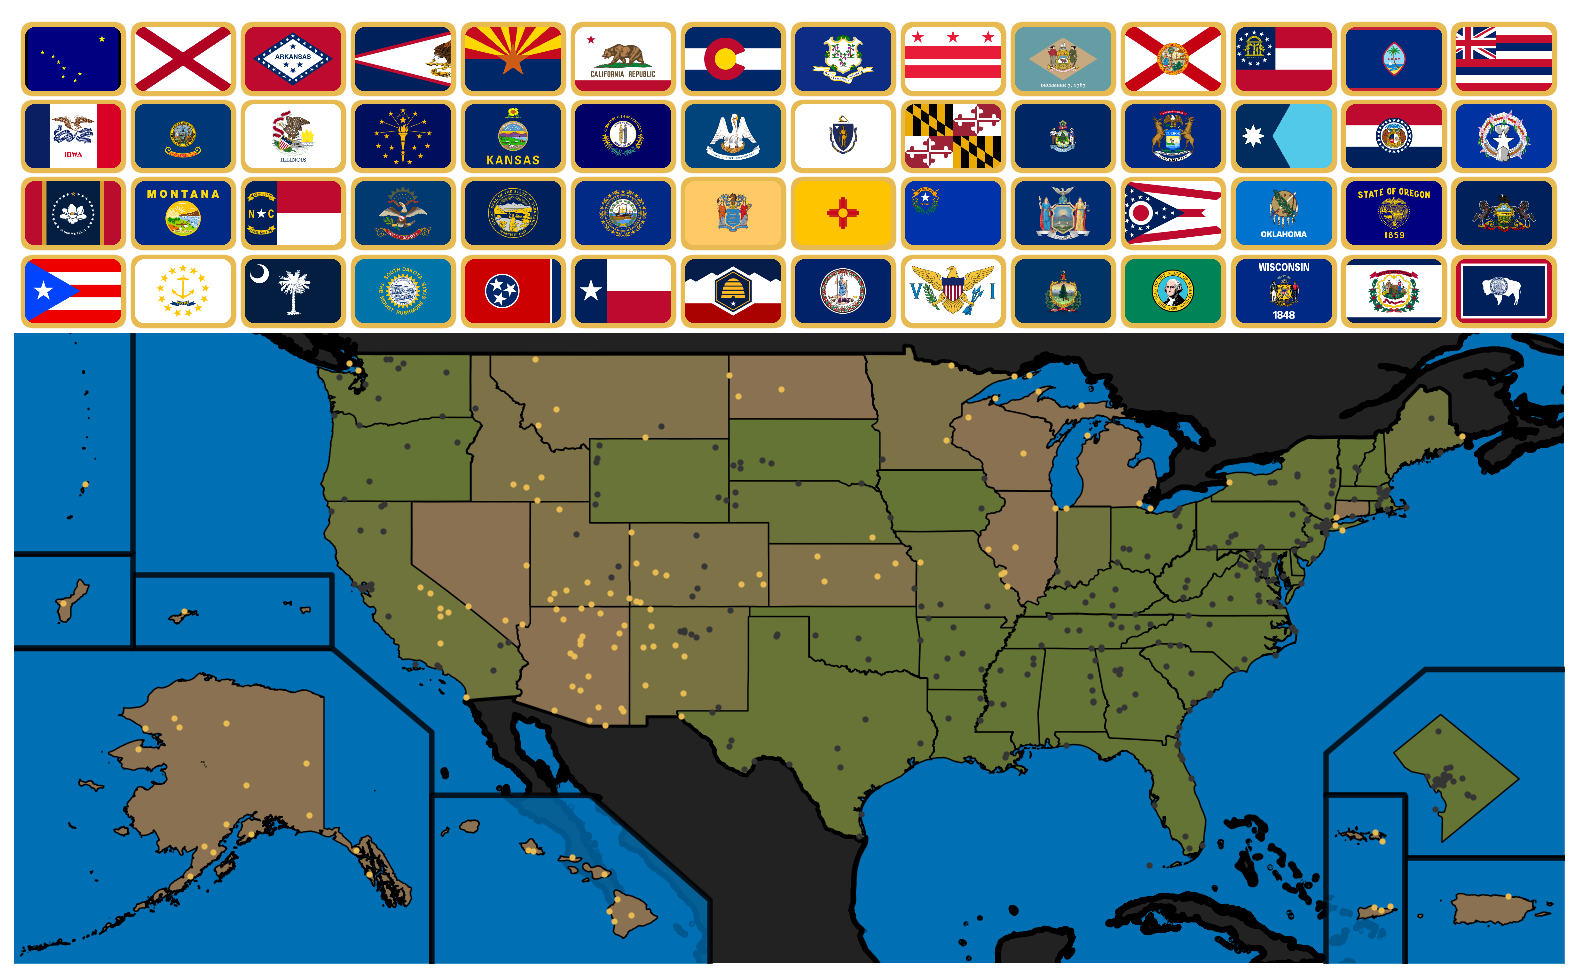
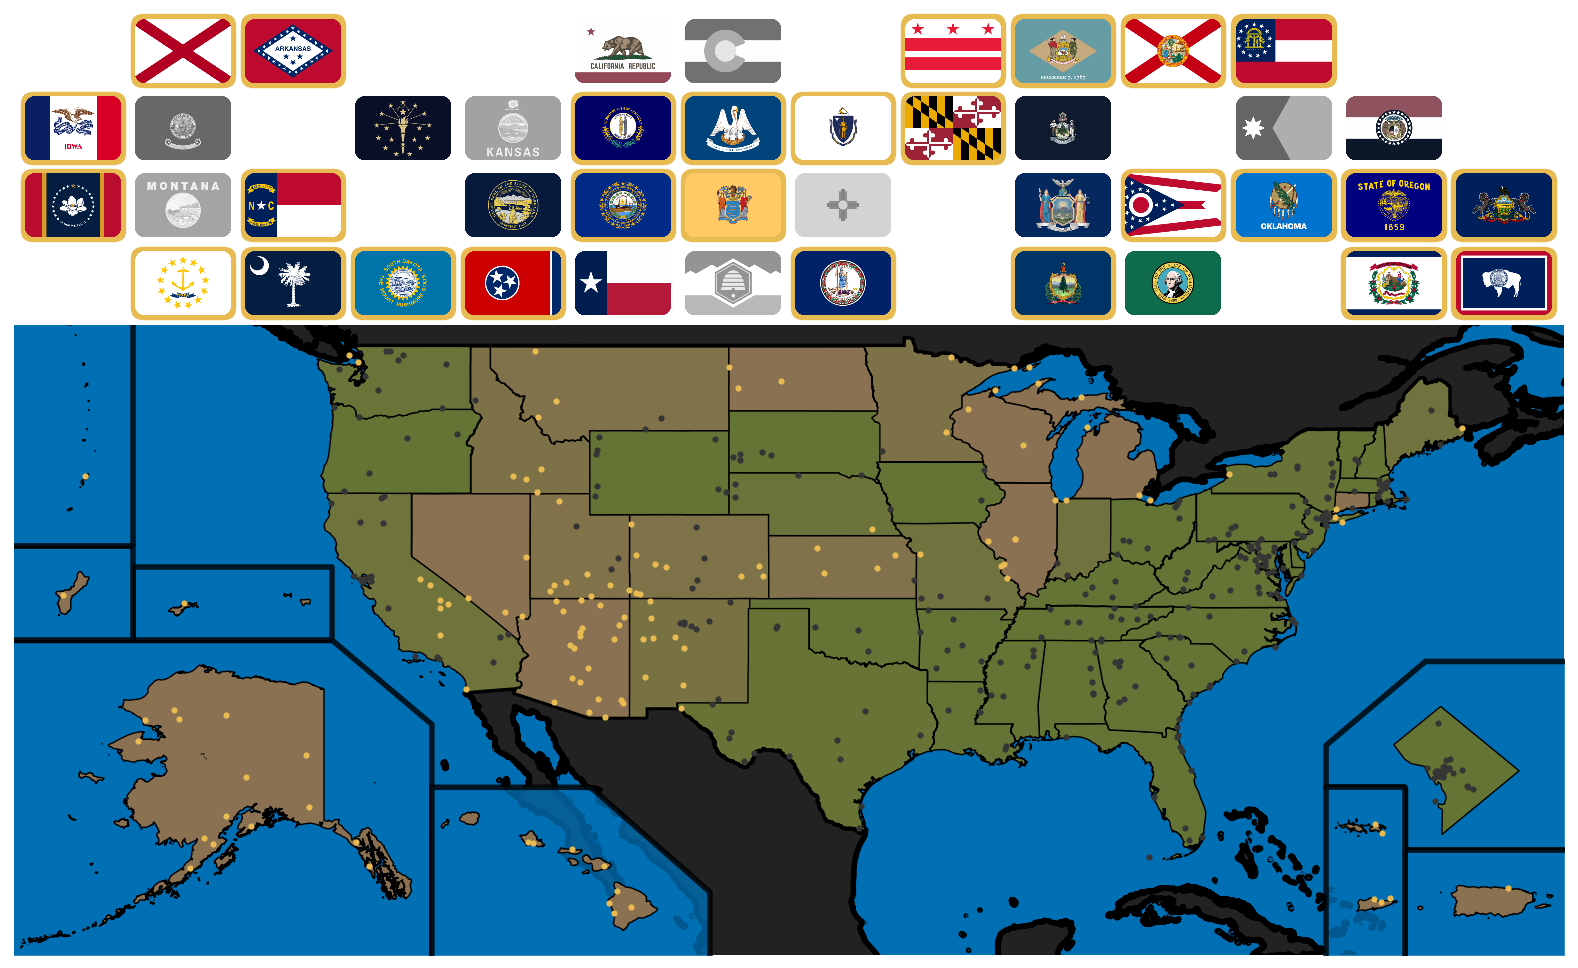
add plotting

diff --git a/plotting/plotting_manager.py b/plotting/plotting_manager.py
@@ -54,13 +54,13 @@ class PlotManager:
         self.copy = copy
         print(f"{current_date.date()} - {row['name']}")
         fig, ax = self._initialize_plot()
+        self.points_working = self.points_gdf.copy(deep=True)
         self._plot_submaps(ax, current_date)
         if self.plot_scale >= 3:
-            self._plot_labels(ax, current_date, points=self.points_gdf)
-            #self._plot_points(ax, current_date, points=self.points_gdf)
+            self._plot_labels(ax, current_date, points=self.points_working)
         else:
-            self._plot_points(ax, current_date, points=self.points_gdf)
-        self._plot_points(ax, current_date, points=self.points_gdf, a_type="clear")
+            self._plot_points(ax, current_date, points=self.points_working)
+        self._plot_points(ax, current_date, points=self.points_working, a_type="clear")
         self._plot_flags(ax)
         self._finalize_and_save_plot(fig, current_date)
 
@@ -146,18 +146,29 @@ class PlotManager:
             )
 
             # Scale and Shift Points
-            mask = self.points_gdf['submap'] == submap["Name"]
+            mask = self.points_working['submap'] == submap["Name"]
 
-            self.points_gdf.loc[mask, "geometry"] = (
-                self.points_gdf.loc[mask, "geometry"]
-                .apply(
-                    lambda geom: affinity.translate(
-                        geom,
-                        xoff=xoff + ((scale[0] - 1) * geom.x),
-                        yoff=yoff + ((scale[1] - 1) * geom.y),
-                    )
+            submap_points = self.points_working.loc[mask].copy()
+
+            submap_points["geometry"] = submap_points["geometry"].apply(
+                lambda geom: affinity.scale(
+                    geom,
+                    xfact=scale[0],
+                    yfact=scale[1],
+                    origin=(0, 0)
                 )
             )
+
+            submap_points["geometry"] = submap_points["geometry"].apply(
+                lambda geom: affinity.translate(
+                    geom,
+                    xoff=xoff,
+                    yoff=yoff
+                )
+            )
+
+            # Write transformed geometries back into working copy
+            self.points_working.loc[mask, "geometry"] = submap_points["geometry"]
 
             submap_gdf.plot(ax=ax, edgecolor="black", linewidth=1/self.plot_scale, color=color, alpha=1)
 
@@ -168,15 +179,15 @@ class PlotManager:
             points["geometry"].plot(ax=ax, color="black", linewidth=0, markersize=self.marker_size, alpha=0)
 
         else:
-            # Visited
-            visited = points['date'] < current_date
-            if visited.any():
-                points[visited].plot(ax=ax, color=self.color_visited, linewidth=0, markersize=self.marker_size, alpha=1)
-
             # Unvisited
             unvisited = (points['date'] > current_date) | (points['date'].isna())
             if unvisited.any():
                 points[unvisited].plot(ax=ax, color=self.color_unvisited, linewidth=0, markersize=self.marker_size, alpha=1)
+
+            # Visited
+            visited = points['date'] < current_date
+            if visited.any():
+                points[visited].plot(ax=ax, color=self.color_visited, linewidth=0, markersize=self.marker_size, alpha=1)
 
             # Active
             active = points['date'] == current_date
@@ -207,8 +218,8 @@ class PlotManager:
         for i, file in enumerate(png_files):
             frameon = False
 
-            #ratio = self.ratios[file[:2]]
-            ratio=1
+            ratio = self.ratios[file[:2]]
+            #ratio=1
             if ratio == 1:
                 frameon = True
 

diff --git a/main.py b/main.py
@@ -50,18 +50,18 @@ plot_manager = PlotManager(
 
 # Add first plot
 current_date = points_sorted['date'].min() - datetime.timedelta(days=1)
-#plot_manager.generate_plot(current_date, points_sorted.iloc[0], copy=False)
+plot_manager.generate_plot(current_date, points_sorted.iloc[0], copy=True)
 
 # Plot all dates
 for _, row in points_sorted.iterrows():
     current_date = row['date']
     if pd.notna(current_date) and current_date != old_date:
-        #plot_manager.generate_plot(current_date, row)
+        plot_manager.generate_plot(current_date, row)
         old_date = current_date
 
 # Create Last Plot
 old_date += datetime.timedelta(days=1)
-plot_manager.generate_plot(old_date, row, copy=False)
+plot_manager.generate_plot(old_date, row, copy=True)
 
 # Create gif from produced plots
 gif = GifGenerator(
@@ -72,10 +72,6 @@ gif = GifGenerator(
 gif.generate()
 
 # Large Plot
-
-# Reload Points
-points_gdf = PointsLoader(PATH).load()
-
 plot_manager = PlotManager(
     points_gdf=points_gdf,
     submaps=submaps,
